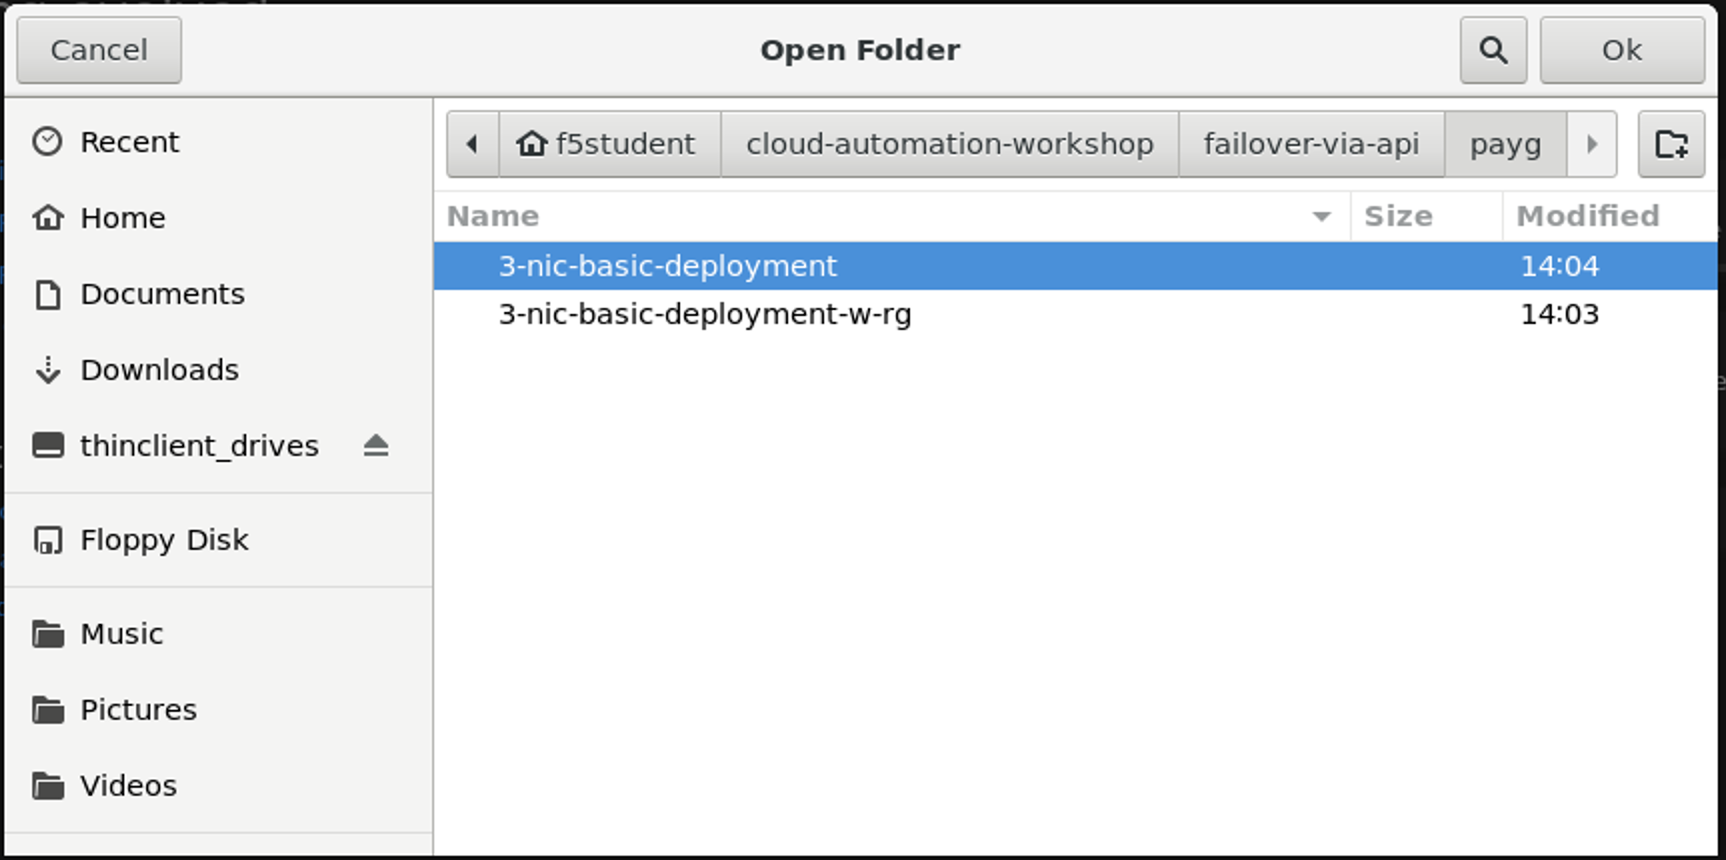
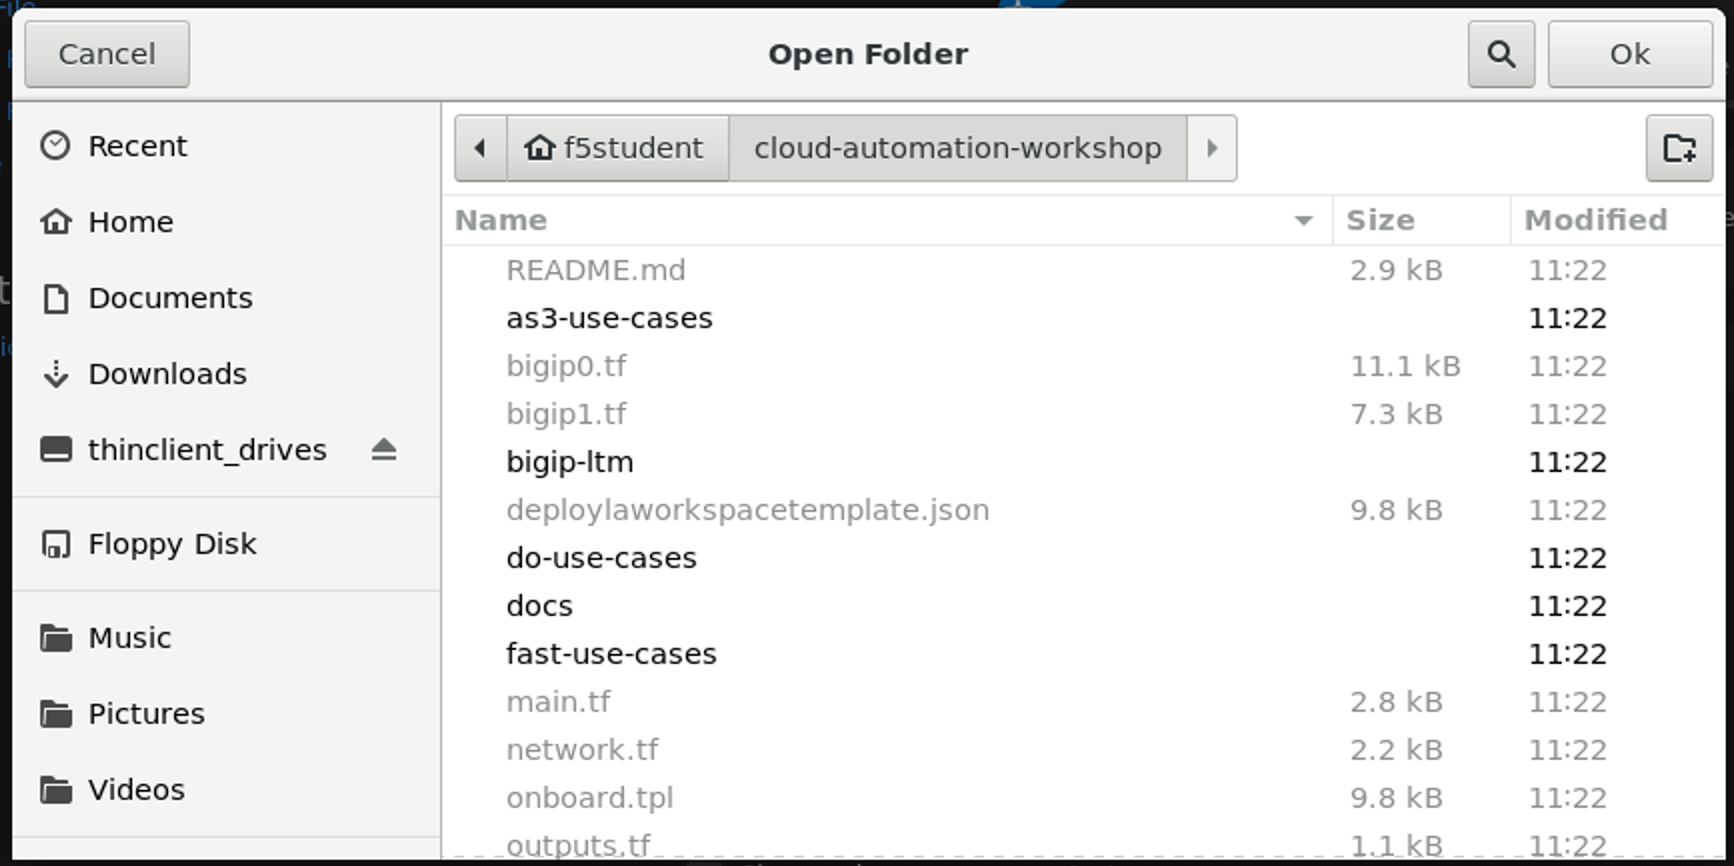
changes

diff --git a/docs/module_1/task1_1.md b/docs/module_1/task1_1.md
@@ -38,7 +38,7 @@ This grabs the files we will going to use for the lab from Github and places the
 
 **Step 8:** Let’s open the folder in VSC, by selecting ![](../png/module1/task1_1_p6.png)
 
-in the left pane and in the Home directory select **cloud-automation-workshop > failover-via-api > payg > 3-nic-basic-deployment** and click **‘OK’**.
+in the left pane and in the Home directory select **cloud-automation-workshop** and click **‘OK’**.
 
 ![](../png/module1/task1_1_p7.png)
 
@@ -75,9 +75,9 @@ This workshop is built by using HashiCorp Terraform (https://www.terraform.io/) 
 
 ![](../png/module1/task1_1_p11.png)
 
-3. In **files** select **cloud-automation-workshop > failover-via-api > payg > 3-nic-basic-deployment** and **paste** folder **files**.
+3. In **files** select **cloud-automation-workshop** and **paste** folder **files**.
 
-4. When folder **files** is pasted into folder **3-nic-basic-deployment**, you can close the 'files' window.
+4. When folder **files** is pasted into folder **loud-automation-workshop**, you can close the window.
 
 ![](../png/module1/task1_1_p12.png)
 
